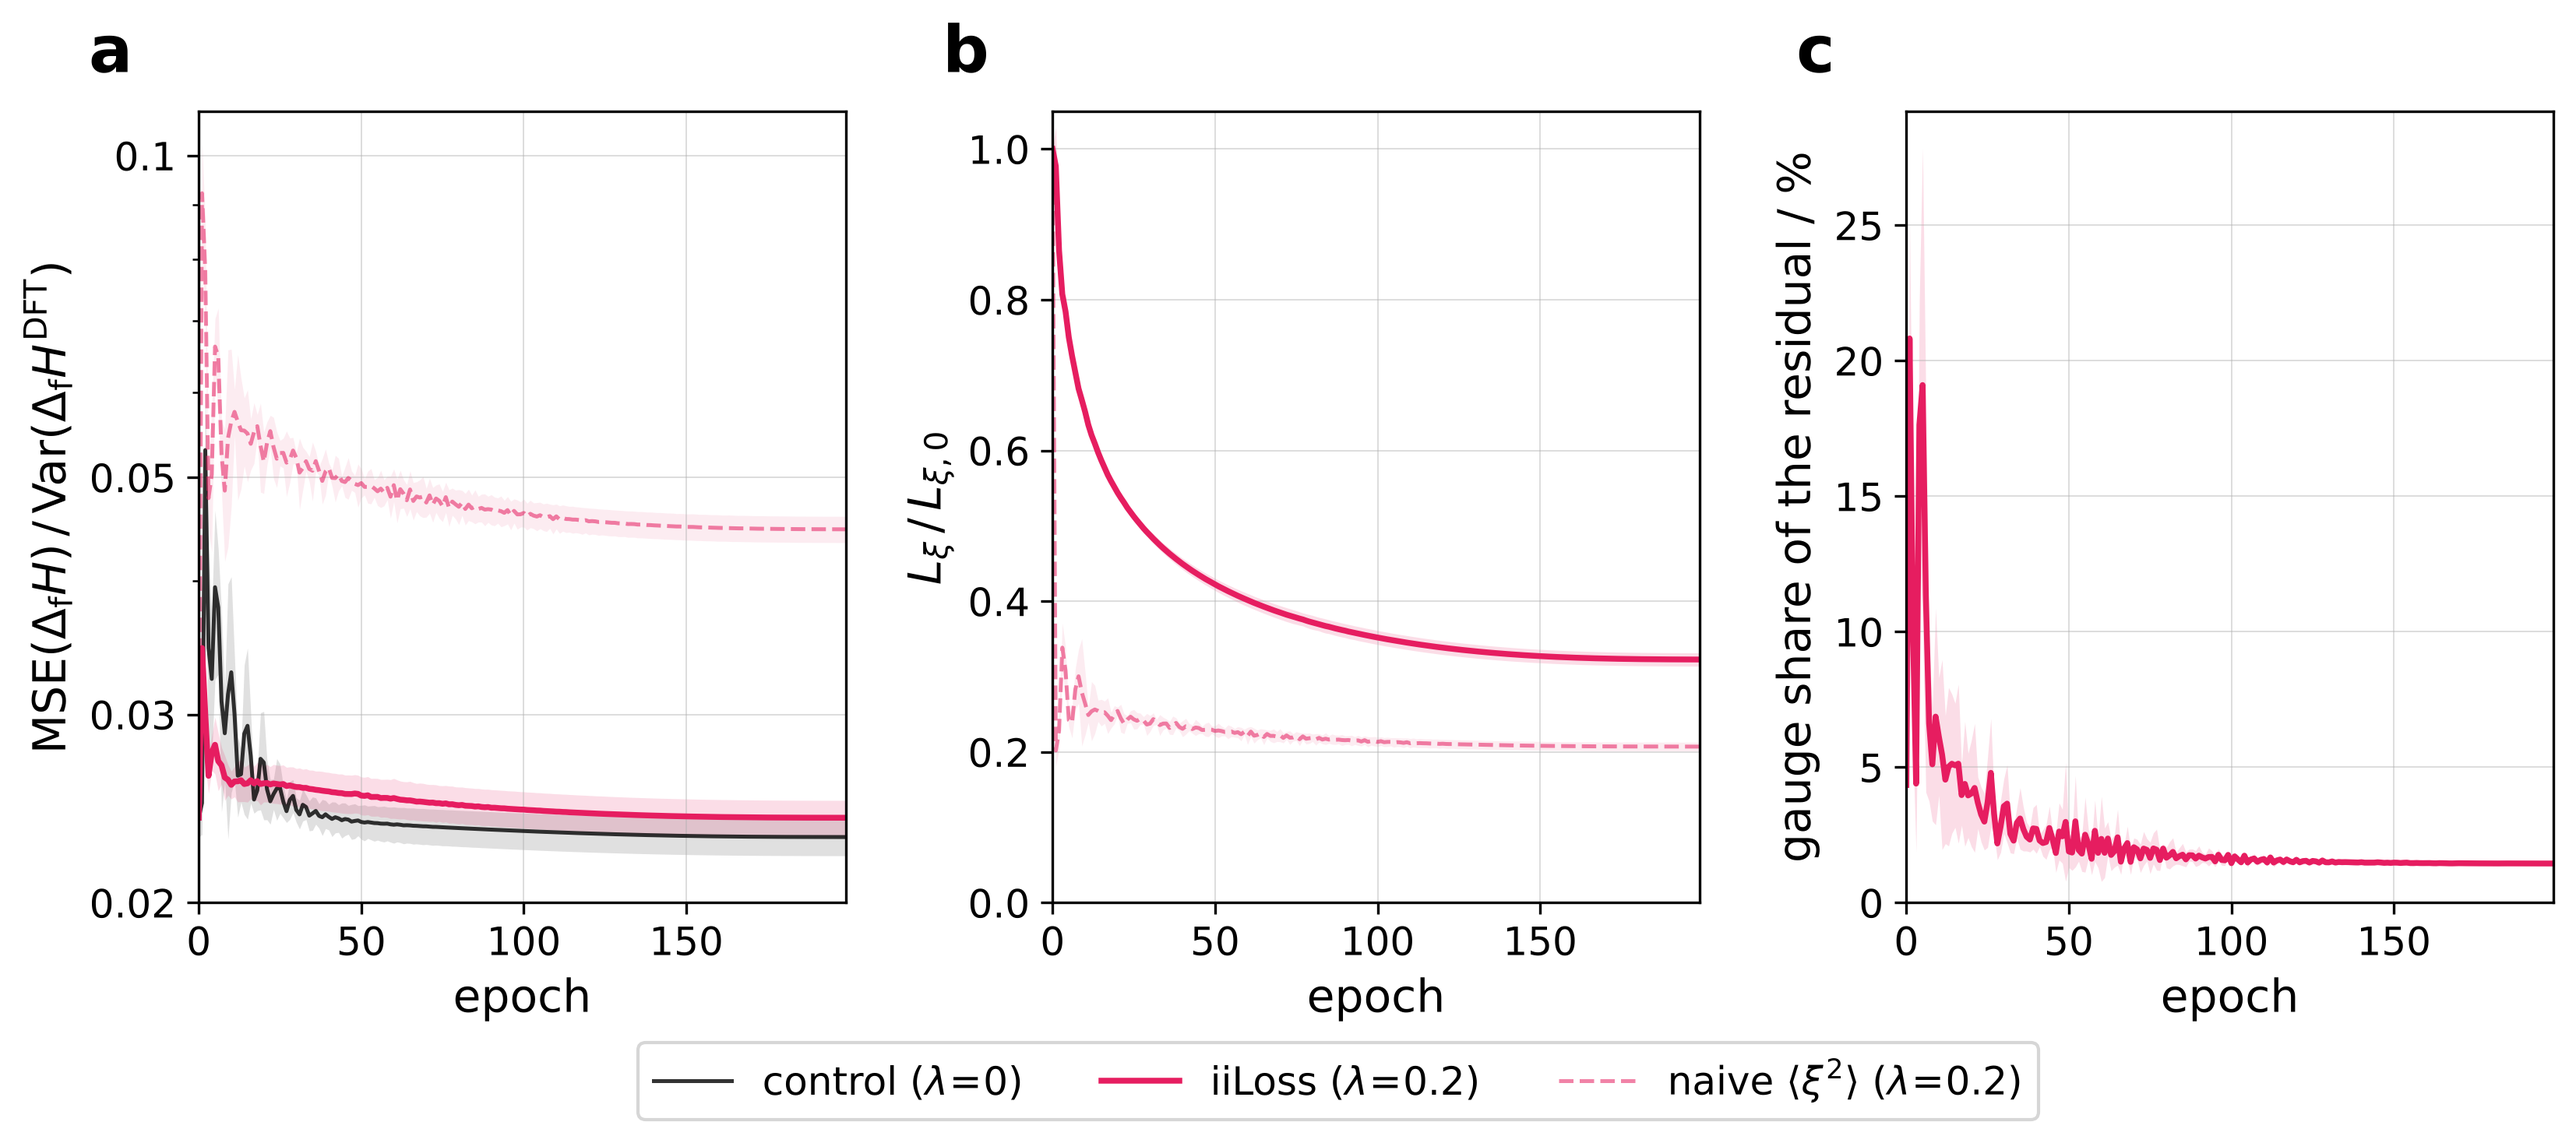
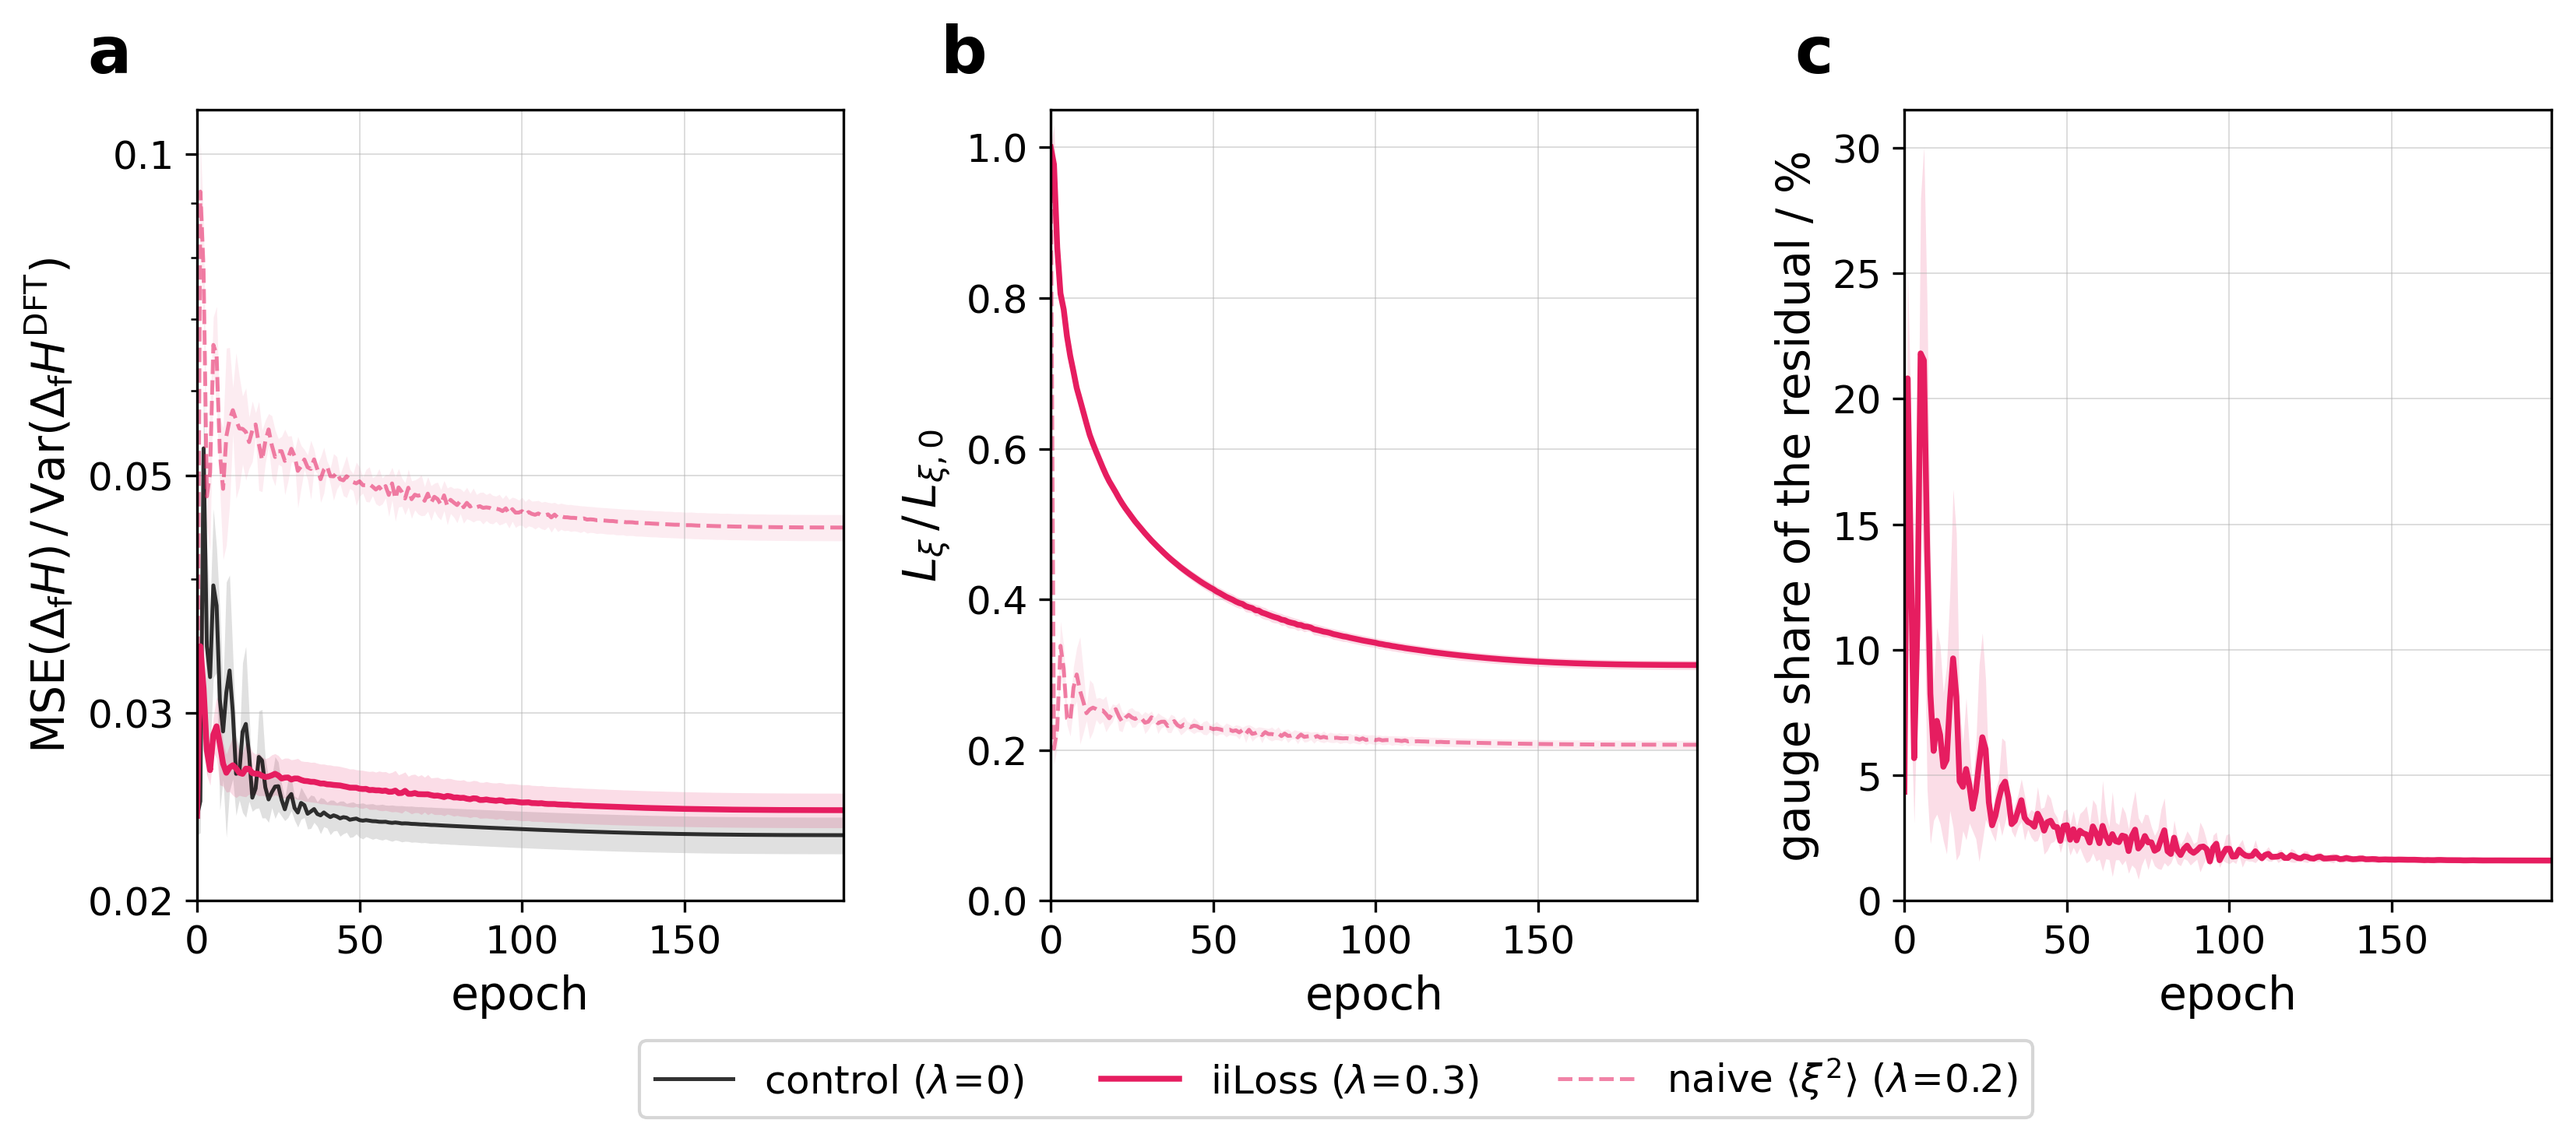
Prospective test at the nested-CV lambda only
Scripts, Figs. S1/S2 and the paired table use iiLoss 0.3 and HdLoss 0.3.
The runs at the preprint's lambda stay documented in docs/PREREGISTRATION.md.
The WBM summary is checked by MD5 instead of fetched from a dead URL.

Claude-Session: https://claude.ai/code/session_01LREGQMxWEYx316wGAZ1sr7

diff --git a/scripts/figures/figS1.py b/scripts/figures/figS1.py
@@ -2,22 +2,25 @@
 
 Both figures use the training curves of the prospective test, in which one
 model per seed is fine-tuned on all compounds of the 2025 MP snapshot with
-lambda fixed in advance. Curves are means over the five seeds, shaded bands
-the sample standard deviation.
+lambda of the nested cross-validation. Curves are means over the five seeds,
+shaded bands the sample standard deviation.
 
-Figure S1 (iiLoss, lambda = 0.2)
+Figure S1 (iiLoss, lambda = 0.3; naive penalty at its lambda of 0.2)
     (a) MSE(dfH) / Var(dfH_DFT) for the control, iiLoss and the naive penalty
     (b) interference term relative to its value for the initial model
     (c) gauge share of the training residual for iiLoss
 
-Figure S2 (HdLoss, lambda = 0.1)
+Figure S2 (HdLoss, lambda = 0.3)
     (a) MSE(dfH) / Var(dfH_DFT) for the control and HdLoss
     (b) MSE(dHd) relative to its value for the initial model
 
 The curves are written by the prospective runs (scripts/prospective.sh) as
 runs_wbm/curves/<loss>_<lam>_s<seed>.csv and are copied to data/wbm/curves.
-File stems: mse_0 = control, iiperpfrozen_0.2 = iiLoss (gauge-free, frozen
-scales), iiloss_0.2 = naive <xi^2> penalty, hdloss_0.1 = HdLoss.
+File stems: mse_0 = control, iiperpfrozen_<lam> = iiLoss (gauge-free, frozen
+scales), iiloss_0.2 = naive <xi^2> penalty, hdloss_<lam> = HdLoss. The runs at
+lam = 0.3 (the value the nested cross-validation selects most often) fine-tune
+the same stage-one checkpoints as the first runs at the lam of the preprint
+(iiperpfrozen_0.2, hdloss_0.1), whose curves remain in data/wbm/curves.
 
 Usage
 -----
@@ -64,12 +67,12 @@ _COL_REF = "#000000"
 SERIES = {
     "control": dict(stem="mse_0", color=_COL_REF, lw=1.2, ls="-", alpha=0.8,
                     label=r"control ($\lambda\!=\!0$)"),
-    "iiLoss": dict(stem="iiperpfrozen_0.2", color=_COL_II, lw=1.8, ls="-",
-                   alpha=1.0, label=r"iiLoss ($\lambda\!=\!0.2$)"),
+    "iiLoss": dict(stem="iiperpfrozen_0.3", color=_COL_II, lw=1.8, ls="-",
+                   alpha=1.0, label=r"iiLoss ($\lambda\!=\!0.3$)"),
     "naive": dict(stem="iiloss_0.2", color=_COL_II, lw=1.2, ls="--", alpha=0.55,
                   label=r"naive $\langle\xi^2\rangle$ ($\lambda\!=\!0.2$)"),
-    "HdLoss": dict(stem="hdloss_0.1", color=_COL_HD, lw=1.8, ls="-", alpha=1.0,
-                   label=r"HdLoss ($\lambda\!=\!0.1$)"),
+    "HdLoss": dict(stem="hdloss_0.3", color=_COL_HD, lw=1.8, ls="-", alpha=1.0,
+                   label=r"HdLoss ($\lambda\!=\!0.3$)"),
 }
 
 # objective -> (series in panel a, series in panel b, ylabel b, gauge panel)

diff --git a/scripts/summarise_revision.py b/scripts/summarise_revision.py
@@ -11,7 +11,8 @@ Sections
     eps          the denominator stabiliser at lam = 0.2
     selection    lam chosen on the validation split, per objective and width
     capacity     the nested runs against the control at every base width
-    prospective  the preregistered comparisons on the WBM discovery set
+    prospective  the comparisons on the WBM discovery set, at the lambda the
+                 nested cross-validation selects most often
 
 Every comparison is paired by seed: the relative change is averaged over seeds,
 "k/n" counts the seeds in which the run beats its control, and p is a paired
@@ -53,7 +54,7 @@ NESTED_METRICS = ["MAE_f", "MAE_d", "xi_rms", "Xi2_Q", "p_gauge", "frac_xi_lt1",
                   "F1", "precision", "recall", "maxF1", "ROC_AUC", "PR_AUC", "MCC",
                   "mlhull_F1", "mlhull_precision", "mlhull_recall", "mlhull_DAF",
                   "mlhull_MAE_hd"]
-PROSPECTIVE_RUNS = ["iiLoss_finetune_0.2", "iiLossRaw_finetune_0.2", "HdLoss_finetune_0.1"]
+PROSPECTIVE_RUNS = ["iiLoss_finetune_0.3", "HdLoss_finetune_0.3", "iiLossRaw_finetune_0.2"]
 PROSPECTIVE_METRICS = ["MAE_f_wbm", "uniq_MAE_hull", "uniq_F1", "uniq_DAF",
                        "uniq_precision", "uniq_recall", "uniq_ROC_AUC", "uniq_PR_AUC",
                        "full_F1", "full_DAF", "closed_MAE_d", "closed_xi_rms",
@@ -173,9 +174,10 @@ def section_prospective(df):
         rows = paired(df, run, CONTROL, PROSPECTIVE_METRICS)
         show(rows, f"WBM: {run} against {CONTROL}")
         out += rows
-    rows = paired(df, "iiLoss_finetune_0.2", "HdLoss_finetune_0.1",
-                  ["closed_MAE_d", "MAE_f_wbm", "uniq_F1", "uniq_MAE_hull", "uniq_ROC_AUC"])
-    show(rows, "WBM: iiLoss_finetune_0.2 against HdLoss_finetune_0.1 (H4)")
+    head = ["closed_MAE_d", "MAE_f_wbm", "uniq_F1", "uniq_MAE_hull", "uniq_ROC_AUC",
+            "closed_F1"]
+    rows = paired(df, "iiLoss_finetune_0.3", "HdLoss_finetune_0.3", head)
+    show(rows, "WBM: iiLoss_finetune_0.3 against HdLoss_finetune_0.3")
     return out + rows
 
 

diff --git a/scripts/paper_numbers.py b/scripts/paper_numbers.py
@@ -460,7 +460,7 @@ def section_prospective():
     print("\nProspective test on WBM")
     df = split_seed(pd.read_csv(os.path.join(RESULTS, "wbm", "prospective_summary.csv")))
     c = "iiLoss_finetune_0.0"
-    for stem in ("iiLoss_finetune_0.2", "iiLossRaw_finetune_0.2", "HdLoss_finetune_0.1"):
+    for stem in ("iiLoss_finetune_0.3", "HdLoss_finetune_0.3", "iiLossRaw_finetune_0.2"):
         for k in ("closed_MAE_d", "MAE_f_wbm", "uniq_F1", "uniq_DAF", "uniq_precision",
                   "uniq_recall", "uniq_MAE_hull", "uniq_ROC_AUC", "full_F1", "closed_Xi2_Q",
                   "closed_F1", "novel_MAE_hull", "novel_DAF", "novel_F1", "closed_novel_MAE_d",

diff --git a/scripts/prospective.py b/scripts/prospective.py
@@ -18,8 +18,8 @@ format of Matbench Discovery,
 
     data/wbm/ml/<model>[_w<width>]_s<seed>.csv.gz    material_id, e_form_per_atom
 
-The hypotheses, the runs and the metrics were registered before any of these
-runs started; see the revision's PREREGISTRATION.
+lam is the value the nested cross-validation selects most often (0.3 for iiLoss
+and HdLoss, 0.2 for iiLossRaw); see scripts/prospective.sh.
 """
 
 import json

diff --git a/README.md b/README.md
@@ -50,8 +50,9 @@ This branch holds the revised manuscript. What changed, and why:
   reaction-based metrics, as are max-F1, ROC-AUC, PR-AUC, MCC and the
   gauge-fixed index Ξ²_Q.
 - **A prospective test.** One model per seed is trained on all of MP and
-  predicts the 257k materials of the WBM discovery set, under hypotheses
-  registered before the runs (`docs/PREREGISTRATION.md`).
+  predicts the 257k materials of the WBM discovery set, at the λ the nested
+  cross-validation selects most often (0.3 for iiLoss and HdLoss). The first
+  runs, at the λ of the preprint, are documented in `docs/PREREGISTRATION.md`.
 - **The Matbench Discovery models.** The diagnostic is applied to the published
   predictions of 67 models, 57 of them interatomic potentials, on a closed WBM
   hull.
@@ -71,7 +72,7 @@ preprint, in `results/paper_numbers.md`, written by `scripts/paper_numbers.py`.
 │   ├── 2026/                    # MP snapshot from 2026/05/27, the preprint's data
 │   └── wbm/                     # WBM discovery set: closed hull, model manifest, predictions
 ├── checkpoints/                 # Stage-one weights (from Zenodo)
-├── docs/                        # Nested protocol and preregistration of the prospective test
+├── docs/                        # Nested protocol; first protocol of the prospective test
 ├── results/                     # Scores, summaries, paper_numbers.md
 ├── figures/                     # Paper and SI figures
 ├── models/
@@ -85,7 +86,7 @@ preprint, in `results/paper_numbers.md`, written by `scripts/paper_numbers.py`.
     ├── nested.sh                # Nested cross-validation, Table 2
     ├── capacity.sh              # Capacity ladder with the nested protocol
     ├── prospective.py           # Train on all of MP, predict WBM
-    ├── prospective.sh           # The preregistered prospective runs
+    ├── prospective.sh           # The prospective runs
     ├── sweep.sh                 # Full sweep over lambda and variant
     ├── interference_score.py    # Score predictions, writes results/
     ├── spectral.py              # Shared scoring machinery (structure matrix, gauge, LP hull)
@@ -161,13 +162,12 @@ tar xzf predictions_2025.tar.gz
 tar xzf predictions_wbm.tar.gz
 ```
 
-The WBM summary comes from Matbench Discovery, and `prospective.sh` fetches it
-if it is absent:
-
-```bash
-curl -L -o data/wbm/2023-12-13-wbm-summary.csv.gz \
-  https://github.com/janosh/matbench-discovery/raw/main/data/wbm/2023-12-13-wbm-summary.csv.gz
-```
+The WBM summary, `2023-12-13-wbm-summary.csv.gz`, is part of the Matbench
+Discovery data files (figshare, https://figshare.com/articles/dataset/22715158).
+Save it as `data/wbm/2023-12-13-wbm-summary.csv.gz`; the MD5 sum of its
+unpacked content is `ae071b0918fe011e3ef63303f10338be`
+(`zcat data/wbm/2023-12-13-wbm-summary.csv.gz | md5sum`), and `prospective.sh`
+stops if it differs.
 
 The published predictions of the Matbench Discovery models are listed with
 their figshare links and MD5 sums in `data/wbm/mbd_manifest.csv`; save each as

diff --git a/docs/PREREGISTRATION.md b/docs/PREREGISTRATION.md
@@ -61,3 +61,18 @@ or dropped after seeing results. Any deviation will be listed here with its reas
   conclusion changed.
 - **Additional robustness analysis, not pre-registered and reported as such:**
   restriction to WBM compositions absent from the MP training set.
+
+## Deviation (added 2026-11-18)
+- **Additional arms at the lambda of the nested cross-validation.** The preregistered
+  lambda (iiLoss 0.2, HdLoss 0.1) was taken from the first preprint, before the nested
+  cross-validation of the revision existed. That cross-validation, run on MP alone,
+  selects lambda = 0.3 most often for both objectives (iiLoss in 14 and HdLoss in 20
+  of 25 seed/fold combinations, results/2025/nested/selection_s*_f*.json); HdLoss never
+  selects 0.1. Both objectives were therefore also run at lambda = 0.3, after the
+  preregistered results were known (2026-11-18, scripts/prospective.sh). No WBM data
+  entered this choice. The new arms fine-tune the same stage-one checkpoints as the
+  preregistered ones (identical MD5 sums), and refitting the control from them
+  reproduced its predictions exactly, so all arms remain paired with one control.
+- The manuscript reports the lambda = 0.3 arms. The runs at the preregistered lambda
+  stay in results/wbm/prospective_summary.csv and in the Zenodo archive; their
+  conclusions are the same.
